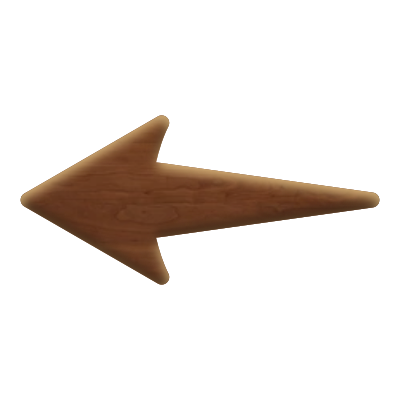
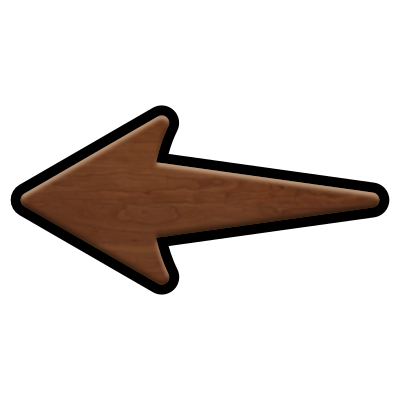
Updated UI for Hint and added animation for Hint in LevelScene

Changed region(s): [[0.03, 0.24, 0.99, 0.75]]

diff --git a/Assets/Scripts/LevelUI.cs b/Assets/Scripts/LevelUI.cs
@@ -123,7 +123,7 @@ public class LevelUI : MonoBehaviour
 		_hintPanel.SetActive(active);
 	}
 
-	public void SetHintDirection(char direction)
+	public void SetActiveHintDirectionPanel(char direction)
 	{
 		char directionUpper = char.ToUpper(direction);
 
@@ -147,6 +147,128 @@ public class LevelUI : MonoBehaviour
 		else if (directionUpper == 'R')
 		{
 			_hintRightPanel.SetActive(true);
+		}
+	}
+
+	private void AnimateHintDirectionUpStop()
+	{
+		LeanTween.cancel(_hintUpPanel);
+	}
+
+	private void AnimateHintDirectionDownStop()
+	{
+		LeanTween.cancel(_hintDownPanel);
+	}
+
+	private void AnimateHintDirectionLeftStop()
+	{
+		LeanTween.cancel(_hintLeftPanel);
+	}
+
+	private void AnimateHintDirectionRightStop()
+	{
+		LeanTween.cancel(_hintRightPanel);
+	}
+
+	private void AnimateHintDirectionUpStart(float animateTime)
+	{
+		RectTransform rectTransform = (RectTransform)_hintUpPanel.transform;
+		Vector3 pos = rectTransform.anchoredPosition;
+		float delta = ((((RectTransform)(_hintPanel.transform)).rect.height / 2) - (rectTransform.rect.height / 2)) / 2;
+
+		rectTransform.anchoredPosition = new Vector3(pos.x, pos.y - delta, pos.z);
+
+		LeanTween.moveLocalY(_hintUpPanel, pos.y + delta, animateTime).setEase(LeanTweenType.easeOutQuad).setOnComplete
+		(
+			()=>
+			{
+				rectTransform.anchoredPosition = new Vector3(pos.x, pos.y, pos.z);
+				AnimateHintDirectionUpStart(animateTime);
+			}
+		);
+	}
+
+	private void AnimateHintDirectionDownStart(float animateTime)
+	{
+		RectTransform rectTransform = (RectTransform)_hintDownPanel.transform;
+		Vector3 pos = rectTransform.anchoredPosition;
+		float delta = ((((RectTransform)(_hintPanel.transform)).rect.height / 2) - (rectTransform.rect.height / 2)) / 2;
+
+		rectTransform.anchoredPosition = new Vector3(pos.x, pos.y + delta, pos.z);
+
+		LeanTween.moveLocalY(_hintDownPanel, pos.y - delta, animateTime).setEase(LeanTweenType.easeOutQuad).setOnComplete
+		(
+			()=>
+			{
+				rectTransform.anchoredPosition = new Vector3(pos.x, pos.y, pos.z);
+				AnimateHintDirectionDownStart(animateTime);
+			}
+		);
+	}
+
+	private void AnimateHintDirectionLeftStart(float animateTime)
+	{
+		RectTransform rectTransform = (RectTransform)_hintLeftPanel.transform;
+		Vector3 pos = rectTransform.anchoredPosition;
+		float delta = ((((RectTransform)(_hintPanel.transform)).rect.height / 2) - (rectTransform.rect.height / 2)) / 2;
+
+		rectTransform.anchoredPosition = new Vector3(pos.x + delta, pos.y, pos.z);
+
+		LeanTween.moveLocalX(_hintLeftPanel, pos.x - delta, animateTime).setEase(LeanTweenType.easeOutQuad).setOnComplete
+		(
+			()=>
+			{
+				rectTransform.anchoredPosition = new Vector3(pos.x, pos.y, pos.z);
+				AnimateHintDirectionLeftStart(animateTime);
+			}
+		);
+	}
+
+	private void AnimateHintDirectionRightStart(float animateTime)
+	{
+		RectTransform rectTransform = (RectTransform)_hintRightPanel.transform;
+		Vector3 pos = rectTransform.anchoredPosition;
+		float delta = ((((RectTransform)(_hintPanel.transform)).rect.height / 2) - (rectTransform.rect.height / 2)) / 2;
+
+		rectTransform.anchoredPosition = new Vector3(pos.x - delta, pos.y, pos.z);
+
+		LeanTween.moveLocalX(_hintRightPanel, pos.x + delta, animateTime).setEase(LeanTweenType.easeOutQuad).setOnComplete
+		(
+			()=>
+			{
+				rectTransform.anchoredPosition = new Vector3(pos.x, pos.y, pos.z);
+				AnimateHintDirectionRightStart(animateTime);
+			}
+		);
+	}
+
+	public void AnimateHintDirectionStop()
+	{
+		AnimateHintDirectionUpStop();
+		AnimateHintDirectionDownStop();
+		AnimateHintDirectionLeftStop();
+		AnimateHintDirectionRightStop();
+	}
+
+	public void AnimateHintDirectionStart(char direction, float animateTime)
+	{
+		char directionUpper = char.ToUpper(direction);
+
+		if (directionUpper == 'U')
+		{
+			AnimateHintDirectionUpStart(animateTime);
+		}
+		else if (directionUpper == 'D')
+		{
+			AnimateHintDirectionDownStart(animateTime);
+		}
+		else if (directionUpper == 'L')
+		{
+			AnimateHintDirectionLeftStart(animateTime);
+		}
+		else if (directionUpper == 'R')
+		{
+			AnimateHintDirectionRightStart(animateTime);
 		}
 	}
 

diff --git a/Assets/Scripts/LevelLogic.cs b/Assets/Scripts/LevelLogic.cs
@@ -880,7 +880,9 @@ public class LevelLogic : MonoBehaviour
 
 			if (_touchHint)
 			{
-				_ui.SetHintDirection(_levelMap._hint[move]);
+				_ui.SetActiveHintDirectionPanel(_levelMap._hint[move]);
+				AnimateHintDirectionStop();
+				AnimateHintDirectionStart(_levelMap._hint[move]);
 			}
 
 			_touchState = TouchState.NONE;
@@ -929,7 +931,9 @@ public class LevelLogic : MonoBehaviour
 				_touchHint = false;
 				_ui.SetActiveControlHintOnPanel(false);
 				_ui.SetActiveControlHintOffPanel(true);
+
 				_ui.SetActiveHintPanel(false);
+				AnimateHintDirectionStop();
 			}
 
 			int moveCount = GetSquareMoveCount();
@@ -1133,9 +1137,21 @@ public class LevelLogic : MonoBehaviour
 
 	// UI - Hint
 
+	private const float HINT_ANIMATE_DIRECTION_TIME = 0.75f;
+
 	private void SetupHint()
 	{
 		_ui.SetActiveHintPanel(false);
+	}
+
+	private void AnimateHintDirectionStop()
+	{
+		_ui.AnimateHintDirectionStop();
+	}
+
+	private void AnimateHintDirectionStart(char direction)
+	{
+		_ui.AnimateHintDirectionStart(direction, HINT_ANIMATE_DIRECTION_TIME);
 	}
 
 	// UI - Control
@@ -1168,6 +1184,17 @@ public class LevelLogic : MonoBehaviour
 		_ui.SetActivePausePanel(true);
 		_ui.SetInteractablePauseButton(false);
 
+		if (_touchHint == true)
+		{
+			_touchHint = false;
+
+			_ui.SetActiveControlHintOnPanel(false);
+			_ui.SetActiveControlHintOffPanel(true);
+
+			AnimateHintDirectionStop();
+			_ui.SetActiveHintPanel(false);
+		}
+
 		AnimatePauseBoardEnter
 		(
 			()=>
@@ -1186,7 +1213,9 @@ public class LevelLogic : MonoBehaviour
 
 		if (_touchHint == true)
 		{
-			_ui.SetHintDirection(_levelMap._hint[move]);
+			_ui.SetActiveHintDirectionPanel(_levelMap._hint[move]);
+			AnimateHintDirectionStop();
+			AnimateHintDirectionStart(_levelMap._hint[move]);
 		}
 	}
 
@@ -1199,7 +1228,9 @@ public class LevelLogic : MonoBehaviour
 
 		if (_touchHint == true)
 		{
-			_ui.SetHintDirection(_levelMap._hint[move]);
+			_ui.SetActiveHintDirectionPanel(_levelMap._hint[move]);
+			AnimateHintDirectionStop();
+			AnimateHintDirectionStart(_levelMap._hint[move]);
 		}
 	}
 
@@ -1214,16 +1245,17 @@ public class LevelLogic : MonoBehaviour
 	public void DoControlHintOnButtonPressed()
 	{
 		_touchHint = false;
+
 		_ui.SetActiveControlHintOnPanel(false);
 		_ui.SetActiveControlHintOffPanel(true);
+
+		AnimateHintDirectionStop();
 		_ui.SetActiveHintPanel(false);
 	}
 
 	public void DoControlHintOffButtonPressed()
 	{
 		_touchHint = true;
-
-
 
 		_ui.SetActiveControlHintOffPanel(false);
 		_ui.SetActiveControlHintOnPanel(true);
@@ -1239,9 +1271,11 @@ public class LevelLogic : MonoBehaviour
 		int move = GetSquareMoveCount();
 
 		_ui.SetTopMoveCurrent(move);
-		_ui.SetActiveHintPanel(true);
-		_ui.SetHintDirection(_levelMap._hint[move]);
 
+		_ui.SetActiveHintPanel(true);
+		_ui.SetActiveHintDirectionPanel(_levelMap._hint[move]);
+		AnimateHintDirectionStop();
+		AnimateHintDirectionStart(_levelMap._hint[move]);
 	}
 
 	// UI - Go
